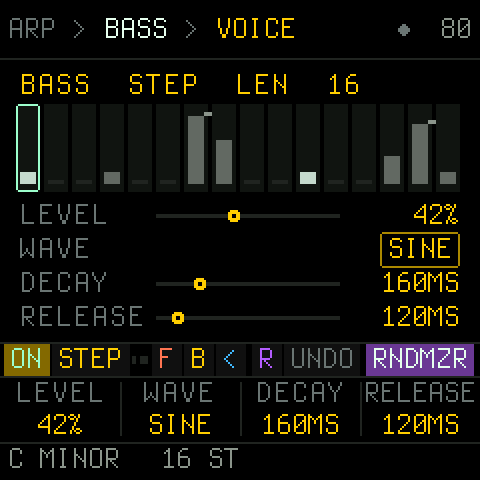
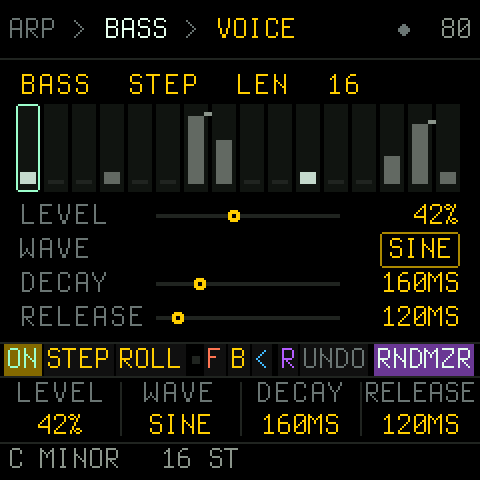
ROLL on BASS: a bass line under the sequence as it is, undoable (0.5-f34)
B2 on the BASS page rolls a BASS SEQ line the way a bass player would under the sequence: the one an accented root,
the other beats roots or fifths or the lead's chord tone where it has one, the offbeats walks into the next beat
(seventh, second or fifth under a root; fourth, sixth or root under a fifth), octave jumps before a root, the
lead's note, or the beat's note again; five to eleven notes of sixteen, the ands filled to five and the "e"s dropped
past eleven; an octave down with the jumps at 0; glides where a note runs into a different next note; it turns
BASS SEQ on. The undo snapshot keeps the bass too (the hash with it), so UNDO takes a roll back. bass_roll tests
200 rolls; the BASS rows' strips in the map, the README and the mapping test read ON STEP ROLL; the screens
regenerated. DECISIONS "A bass line that fits", ROADMAP D8.

Changed region(s): [[0.0, 0.7188, 1.0, 0.7812]]

diff --git a/firmware/src/mello_engine.c b/firmware/src/mello_engine.c
@@ -875,6 +875,93 @@ void mello_engine_drums_roll(MelloEngine *e)
     }
 }
 
+/* ROLL on BASS (DECISIONS.md "A bass line that fits"). A bass player under this sequence: the one is the root, the
+ * other beats (every fourth step) are roots or fifths, or the lead's note where the lead has a chord tone there; the
+ * offbeats are walks into the next beat (the second or the seventh under a root, the fourth or sixth under a fifth),
+ * octave jumps before a root, or the lead's note; the line sits an octave down, with octave jumps up to 0 for the
+ * fills. Five to eleven notes of sixteen, always the one; glides where a note runs into the next, accents on the
+ * one and the three and a few more. A roll never gives two lines alike (the rng moves on). */
+static uint8_t mus_degree(const ScaleDef *sd, int8_t semis); /* the MUSICAL randomizer's, below */
+void mello_engine_bass_roll(MelloEngine *e)
+{
+    static const uint8_t walk_to_root[3] = {MELLO_SUB_TONE_SEVENTH, MELLO_SUB_TONE_SECOND,
+                                            MELLO_SUB_TONE_FIFTH},
+                         walk_to_fifth[3] = {MELLO_SUB_TONE_FOURTH, MELLO_SUB_TONE_SIXTH,
+                                             MELLO_SUB_TONE_ROOT};
+    MelloBassConfig b;
+    const ScaleDef *sd;
+    uint8_t n, k, len, hits = 0u, lead_deg[MELLO_BASS_STEPS], beat_tone[MELLO_BASS_STEPS];
+    bool lead_chord[MELLO_BASS_STEPS];
+    int16_t density;
+    if (!e) return;
+    b = e->bass;
+    sd = &SCALES[e->project.scale < MELLO_SCALE_COUNT ? e->project.scale : MELLO_SCALE_MINOR];
+    n = sd->n;
+    len = b.length ? (b.length > MELLO_BASS_STEPS ? MELLO_BASS_STEPS : b.length) : 16u;
+    density = (int16_t)((int32_t)rng_bounded(&e->gen_rng, 3u) * 120 - 120); /* sparse, as is, busy */
+    /* what the lead plays at each bass step: its scale degree, and whether that is a chord tone (0, 3rd, 5th) */
+    for (k = 0u; k < len; ++k) {
+        const MelloStep *st = &e->project.steps[k % (e->project.seq_len ? e->project.seq_len : 16u)];
+        uint8_t deg = (uint8_t)((st->pitch < 0 ? 0 : st->pitch) % (n ? n : 7u));
+        lead_deg[k] = deg;
+        lead_chord[k] =
+            st->gate != MELLO_GATE_REST && !st->skip &&
+            (deg == 0u || deg == mus_degree(sd, 3) || deg == mus_degree(sd, 4) || deg == mus_degree(sd, 7));
+    }
+    /* the beats first: the one is the root; the others a root or a fifth, or the lead's chord tone when it has one */
+    for (k = 0u; k < len; ++k) {
+        MelloBassStep *s = &b.steps[k];
+        s->on = false, s->glide = false, s->accent = false, s->octave = -1, s->tone = MELLO_SUB_TONE_ROOT;
+        if (k % 4u) continue;
+        if (k == 0u)
+            beat_tone[k] = MELLO_SUB_TONE_ROOT;
+        else if (lead_chord[k] && chance_permille(&e->gen_rng, 550u))
+            beat_tone[k] =
+                lead_deg[k] == 0u ? MELLO_SUB_TONE_ROOT : (uint8_t)lead_deg[k]; /* the degree is the tone */
+        else
+            beat_tone[k] = chance_permille(&e->gen_rng, 600u) ? MELLO_SUB_TONE_ROOT : MELLO_SUB_TONE_FIFTH;
+        s->tone = beat_tone[k];
+        s->on = k == 0u || chance_permille(&e->gen_rng, (uint16_t)(780 + density));
+        s->accent = k == 0u || (k % 8u == 0u && chance_permille(&e->gen_rng, 600u));
+        if (s->on) ++hits;
+    }
+    /* the offbeats: a walk into the next beat, an octave jump before a root, the lead's note, or nothing */
+    for (k = 0u; k < len; ++k) {
+        MelloBassStep *s = &b.steps[k];
+        uint8_t next = (uint8_t)(((k / 4u + 1u) * 4u) % len), to = beat_tone[next], r;
+        uint16_t p =
+            k % 2u ? (uint16_t)(280 + density) : (uint16_t)(420 + density); /* the "and" more than the "e" */
+        if (k % 4u == 0u) continue;
+        if (!chance_permille(&e->gen_rng, p)) continue;
+        r = (uint8_t)rng_bounded(&e->gen_rng, 100u);
+        if (k % 4u == 3u && r < 45u) /* the step before a beat: a walk into it */
+            s->tone = to == MELLO_SUB_TONE_FIFTH ? walk_to_fifth[rng_bounded(&e->gen_rng, 3u)]
+                                                 : walk_to_root[rng_bounded(&e->gen_rng, 3u)];
+        else if (k % 4u == 3u && r < 65u && to == MELLO_SUB_TONE_ROOT) /* an octave jump before the root */
+            s->tone = MELLO_SUB_TONE_ROOT, s->octave = 0;
+        else if (lead_chord[k] && r < 85u)
+            s->tone = lead_deg[k] == 0u ? MELLO_SUB_TONE_ROOT : (uint8_t)lead_deg[k];
+        else
+            s->tone = beat_tone[(k / 4u) * 4u]; /* the beat's note again: a pulse */
+        s->on = true;
+        s->accent = chance_permille(&e->gen_rng, 120u);
+        ++hits;
+    }
+    if (hits < 5u) /* never sporadic: fill the ands until five play */
+        for (k = 2u; k < len && hits < 5u; k += 4u)
+            if (!b.steps[k].on) b.steps[k].on = true, b.steps[k].tone = beat_tone[(k / 4u) * 4u], ++hits;
+    for (k = 1u; k < len && hits > 11u; k += 2u) /* never a wall of sixteenths: the "e"s go first */
+        if (b.steps[k].on) b.steps[k].on = false, --hits;
+    for (k = 0u; k < len; ++k) /* glides where a note runs into the next and the two differ */
+        if (b.steps[k].on && b.steps[(k + 1u) % len].on &&
+            (b.steps[k].tone != b.steps[(k + 1u) % len].tone ||
+             b.steps[k].octave != b.steps[(k + 1u) % len].octave) &&
+            chance_permille(&e->gen_rng, 300u))
+            b.steps[k].glide = true;
+    b.on = true;
+    mello_engine_bass_set_config(e, &b);
+}
+
 /* One BASS SEQ step, pulses long: its note on the sub (unless SUB MUTE), held into the next step if it glides, the
  * next one marked to slide; accents louder (127, else 114 as the sub's). The events carry ratchet_index 1 + the step
  * (mello_audio: a BASS SEQ note slides only when asked, and tags each step apart). */
@@ -3232,6 +3319,7 @@ void mello_engine_undo_snapshot(MelloEngine *e)
     e->undo_chord = e->chord;
 #endif
     e->undo_drums = e->drums;
+    e->undo_bass = e->bass;
     e->undo_valid = true;
     e->undo_is_redo = false;
 }
@@ -3250,7 +3338,8 @@ static uint32_t undo_hash(const MelloEngine *e)
 #if MELLO_FEATURE_CHORD_MACHINE
     h = undo_hash_bytes(h, &e->chord, sizeof e->chord);
 #endif
-    return undo_hash_bytes(h, &e->drums, sizeof e->drums);
+    h = undo_hash_bytes(h, &e->drums, sizeof e->drums);
+    return undo_hash_bytes(h, &e->bass, sizeof e->bass);
 }
 
 uint8_t mello_engine_undo_state(MelloEngine *e)
@@ -3280,8 +3369,11 @@ bool mello_engine_undo_swap(MelloEngine *e)
 #endif
     {
         MelloDrumConfig d = e->drums;
+        MelloBassConfig b = e->bass;
         e->drums = e->undo_drums;
         e->undo_drums = d;
+        e->bass = e->undo_bass;
+        e->undo_bass = b;
     }
     (void)mello_engine_rebuild_sequence(e);
     e->undo_is_redo = !e->undo_is_redo;

diff --git a/tests/mello/bass_roll.c b/tests/mello/bass_roll.c
@@ -1,0 +1,94 @@
+/* SPDX-License-Identifier: GPL-3.0-only */
+/* Copyright (C) 2026 joakimskurk */
+/* ROLL on BASS (DECISIONS.md "A bass line that fits"): a rolled BASS SEQ line is never sporadic (five to eleven of
+ * sixteen steps), starts on the root on the one, sits an octave down except for octave jumps, puts roots, fifths or
+ * the lead's chord tones on the beats, keeps to tones in the scale, glides only into a step that plays, turns BASS
+ * SEQ on, differs from roll to roll, and is undone by UNDO. The lead is MUSICAL's roll, so the beats have chord
+ * tones to follow. */
+#include "mello_engine.h"
+#include <stdio.h>
+#include <string.h>
+
+#define CHECK(c, ...)                                                                                        \
+    do {                                                                                                     \
+        if (!(c)) {                                                                                          \
+            printf("FAIL %s:%d: ", __FILE__, __LINE__);                                                      \
+            printf(__VA_ARGS__);                                                                             \
+            printf("\n");                                                                                    \
+            return 1;                                                                                        \
+        }                                                                                                    \
+    } while (0)
+
+static MelloEngine e;
+
+static unsigned hits(void)
+{
+    unsigned k, n = 0u;
+    for (k = 0u; k < 16u; ++k) n += e.bass.steps[k].on;
+    return n;
+}
+
+int main(void)
+{
+    MelloProject p;
+    MelloBassConfig first;
+    uint32_t s;
+    unsigned sum = 0u, lead_follow = 0u, beats = 0u, different = 0u;
+    mello_project_defaults(&p);
+    mello_engine_init(&e, &p, 7u);
+    mello_engine_randomize_steps_intensity(&e, MELLO_RANDOMIZE_MUSICAL); /* a lead to fit */
+    CHECK(!e.bass.on, "BASS SEQ is off to begin with");
+
+    for (s = 0u; s < 200u; ++s) {
+        unsigned k, h;
+        mello_engine_undo_snapshot(&e);
+        mello_engine_bass_roll(&e);
+        h = hits();
+        sum += h;
+        CHECK(e.bass.on, "roll %u: BASS SEQ should be on after a roll", (unsigned)s);
+        CHECK(h >= 5u && h <= 11u, "roll %u: %u steps play, wanted 5..11", (unsigned)s, h);
+        CHECK(e.bass.steps[0].on && e.bass.steps[0].tone == MELLO_SUB_TONE_ROOT && e.bass.steps[0].accent,
+              "roll %u: the one is not an accented root", (unsigned)s);
+        for (k = 0u; k < 16u; ++k) {
+            const MelloBassStep *b = &e.bass.steps[k];
+            CHECK(b->octave == -1 || (b->octave == 0 && b->tone == MELLO_SUB_TONE_ROOT),
+                  "roll %u step %u: octave %d tone %u (an octave down, or a root jumped up)", (unsigned)s, k,
+                  b->octave, b->tone);
+            CHECK(b->tone <= MELLO_SUB_TONE_OCTAVE, "roll %u step %u: tone %u", (unsigned)s, k, b->tone);
+            if (b->on && b->glide)
+                CHECK(e.bass.steps[(k + 1u) % 16u].on, "roll %u step %u: a glide into a rest", (unsigned)s,
+                      k);
+            if (b->on && k % 4u == 0u) {
+                uint8_t lead = (uint8_t)((e.project.steps[k].pitch < 0 ? 0 : e.project.steps[k].pitch) % 7);
+                ++beats;
+                if (b->tone == MELLO_SUB_TONE_ROOT || b->tone == MELLO_SUB_TONE_FIFTH)
+                    ++lead_follow;
+                else {
+                    CHECK(b->tone == lead, "roll %u step %u: a beat on tone %u, the lead plays degree %u",
+                          (unsigned)s, k, b->tone, lead);
+                    ++lead_follow;
+                }
+            }
+        }
+        if (s == 0u) first = e.bass;
+        if (s && memcmp(e.bass.steps, first.steps, sizeof first.steps)) ++different;
+    }
+    printf(
+        "200 rolls: %u.%u notes a line; %u of %u beats are roots, fifths or the lead's tone; %u lines differ "
+        "from the first\n",
+        sum / 200u, sum * 10u / 200u % 10u, lead_follow, beats, different);
+    CHECK(different >= 190u, "only %u of 199 rolls differ from the first", different);
+
+    { /* UNDO takes a roll back */
+        MelloBassConfig before = e.bass;
+        mello_engine_undo_snapshot(&e);
+        mello_engine_bass_roll(&e);
+        CHECK(memcmp(e.bass.steps, before.steps, sizeof before.steps) != 0, "the roll changed nothing");
+        CHECK(mello_engine_undo_swap(&e) && !memcmp(e.bass.steps, before.steps, sizeof before.steps),
+              "UNDO did not bring the line back");
+    }
+    printf(
+        "PASS: ROLL on BASS gives a line under the sequence: roots and fifths on the beats, an octave down, "
+        "never sporadic, undoable\n");
+    return 0;
+}

diff --git a/firmware/src/mello_ui.c b/firmware/src/mello_ui.c
@@ -606,6 +606,7 @@ typedef enum {
     MELLO_CTX_DRUM_ACCENT, /* the selected step's accent */
     MELLO_CTX_DRUM_ROLL,   /* roll the drums (undoable) */
     MELLO_CTX_DRUM_FEED,   /* RNDMZR rolls the drums too */
+    MELLO_CTX_BASS_ROLL,   /* roll a bass line under the sequence (undoable) */
     MELLO_CTX_DELAY_PRE,   /* FX: the delay before the distortion */
     MELLO_CTX_SAMPLE_TOGGLE,
     MELLO_CTX_HOME_RANDOM, /* reroll now, at the intensity ALGORITHM sets */
@@ -722,6 +723,7 @@ static const MelloContextAction context_actions[MELLO_UI_MIX + 1u][11] = {
                          [10] = {MELLO_CTX_RNDMZR, "RNDMZR"}},
     [MELLO_UI_SUB] = {[0] = {MELLO_CTX_SUB_TOGGLE, "ON"},
                       [1] = {MELLO_CTX_SUB_STEP, "STEP"},
+                      [2] = {MELLO_CTX_BASS_ROLL, "ROLL"},
                       [5] = {MELLO_CTX_PERF_FILL, "F"},
                       [6] = {MELLO_CTX_PERF_SUB_MUTE, "B"},
                       [7] = {MELLO_CTX_PERF_REVERSE, "<"},
@@ -2559,6 +2561,12 @@ static void handle_context_action(MelloUi *ui, uint32_t now_ms, uint8_t action)
     case MELLO_CTX_DRUM_ROLL:
         mello_engine_undo_snapshot(e);
         mello_engine_drums_roll(e);
+        persistent_dirty(ui, now_ms);
+        mark_edit(ui);
+        break;
+    case MELLO_CTX_BASS_ROLL:
+        mello_engine_undo_snapshot(e);
+        mello_engine_bass_roll(e);
         persistent_dirty(ui, now_ms);
         mark_edit(ui);
         break;

diff --git a/firmware/src/mello_engine.h b/firmware/src/mello_engine.h
@@ -898,6 +898,7 @@ typedef struct {
     MelloChordConfig undo_chord;
 #endif
     MelloDrumConfig undo_drums;
+    MelloBassConfig undo_bass; /* ROLL on BASS is undoable too */
     bool undo_valid;
     bool undo_is_redo;  /* the last press was UNDO: the next puts the roll back */
     uint32_t undo_hash; /* the state as UNDO left it: an edit since means there is nothing to redo */
@@ -969,6 +970,11 @@ void mello_sub_defaults(MelloSubConfig *config);
 void mello_drum_defaults(MelloDrumConfig *config);
 void mello_bass_defaults(MelloBassConfig *config);
 void mello_engine_bass_set_config(MelloEngine *engine, const MelloBassConfig *config);
+/* ROLL on BASS (DECISIONS.md "A bass line that fits"): a new BASS SEQ line, weighted towards one a bass player would
+ * play under the sequence as it is: the root on the one, roots and fifths on the beats, the melody's chord tones
+ * where the lead has them, passing tones and octave jumps on the way, glides and accents, an octave down. Turns
+ * BASS SEQ on. Undo: the caller snapshots. */
+void mello_engine_bass_roll(MelloEngine *engine);
 void mello_engine_drums_set_config(MelloEngine *engine, const MelloDrumConfig *config);
 /* A roll of the drums: hits, accents and per-step locks, as much as roll says, the kick kept on the one. */
 void mello_engine_drums_roll(MelloEngine *engine);

diff --git a/tests/mello/control_authoritative_mapping.c b/tests/mello/control_authoritative_mapping.c
@@ -25,7 +25,7 @@ static const MapCase cases[] = {
     {"SLOTS", MELLO_UI_SLOTS, "B5:F B6:B B7:< B8:R B9:UNDO B10:RNDMZR"},
     {"DOT", MELLO_UI_DOT, "B1:RND B2:RST B3:FLW B4:REV B5:F B6:B B7:< B8:R B9:UNDO B10:RNDMZR"},
     {"TURING", MELLO_UI_TURING, "B0:ON B1:RND B2:LOOP B5:F B6:B B7:< B8:R B9:UNDO B10:RNDMZR"},
-    {"SUB", MELLO_UI_SUB, "B0:ON B1:STEP B5:F B6:B B7:< B8:R B9:UNDO B10:RNDMZR"},
+    {"SUB", MELLO_UI_SUB, "B0:ON B1:STEP B2:ROLL B5:F B6:B B7:< B8:R B9:UNDO B10:RNDMZR"},
 #if MELLO_FEATURE_CHORD_MACHINE
     {"CHORD", MELLO_UI_CHORD, "B0:ON B1:BASS B5:F B6:B B7:< B8:R B9:UNDO B10:RNDMZR"},
 #endif
@@ -188,7 +188,7 @@ static void verify_every_page_and_inactive_slot(void)
         }
     }
 #if MELLO_FEATURE_CHORD_MACHINE
-    if (active != 149u) die("MAP", "active slot count != 149 with Chord");
+    if (active != 150u) die("MAP", "active slot count != 150 with Chord");
 #else
     if (active != 140u) die("MAP", "active slot count != 140 without Chord");
 #endif

diff --git a/tests/mello/control_context_contract.c b/tests/mello/control_context_contract.c
@@ -27,7 +27,7 @@ static const HintCase hints[] = {
     {"SLOTS", MELLO_UI_SLOTS, "B5:F B6:B B7:< B8:R B9:UNDO B10:RNDMZR"},
     {"DOT", MELLO_UI_DOT, "B1:RND B2:RST B3:FLW B4:REV B5:F B6:B B7:< B8:R B9:UNDO B10:RNDMZR"},
     {"TURING", MELLO_UI_TURING, "B0:ON B1:RND B2:LOOP B5:F B6:B B7:< B8:R B9:UNDO B10:RNDMZR"},
-    {"SUB", MELLO_UI_SUB, "B0:ON B1:STEP B5:F B6:B B7:< B8:R B9:UNDO B10:RNDMZR"},
+    {"SUB", MELLO_UI_SUB, "B0:ON B1:STEP B2:ROLL B5:F B6:B B7:< B8:R B9:UNDO B10:RNDMZR"},
 #if MELLO_FEATURE_CHORD_MACHINE
     {"CHORD", MELLO_UI_CHORD, "B0:ON B1:BASS B5:F B6:B B7:< B8:R B9:UNDO B10:RNDMZR"},
 #endif

diff --git a/docs/mello/UI_MAP.md b/docs/mello/UI_MAP.md
@@ -32,12 +32,12 @@ K1-K4's labels with their default values. Regenerate with the extractor (uimap.c
 | <img src="../screens/evolve-routes.png" width="96" alt="EVOLVE ROUTES"> | EVOLVE | LFO | ROUTES | `ON RND LOOP F B < R UNDO RNDMZR` | GATE ON · FILTER OFF · OCT OFF · DECAY OFF |
 | <img src="../screens/evolve-depth.png" width="96" alt="EVOLVE DEPTH"> | EVOLVE | LFO | DEPTH | `ON RND LOOP F B < R UNDO RNDMZR` | GATE 35% · FILTER 35% · OCT 35% · DECAY 35% |
 | <img src="../screens/evolve-sound.png" width="96" alt="EVOLVE SOUND"> | EVOLVE | LFO | SOUND | `ON RND LOOP F B < R UNDO RNDMZR` | DEST A OFF · DEPTH A +50% · DEST B OFF · DEPTH B +50% |
-| <img src="../screens/bass-play.png" width="96" alt="BASS PLAY"> | BASS | ARP | PLAY | `ON STEP F B < R UNDO RNDMZR` | MODE STEP · PULSES 6 · ROTATE 0 · OCT -1 |
-| <img src="../screens/bass-seq.png" width="96" alt="BASS SEQ"> | BASS | ARP | SEQ | `ON STEP F B < R UNDO RNDMZR` | SEQ OFF · LENGTH 16 · FOLLOW OFF · GATE 90% |
-| <img src="../screens/bass-step.png" width="96" alt="BASS STEP"> | BASS | ARP | STEP | `ON STEP F B < R UNDO RNDMZR` | TONE ROOT · OCT +0 · GLIDE OFF · ACCENT ON |
-| <img src="../screens/bass-voice.png" width="96" alt="BASS VOICE"> | BASS | ARP | VOICE | `ON STEP F B < R UNDO RNDMZR` | LEVEL 42% · WAVE SINE · DECAY 160MS · RELEASE 120MS |
-| <img src="../screens/bass-tone.png" width="96" alt="BASS TONE"> | BASS | ARP | TONE | `ON STEP F B < R UNDO RNDMZR` | GLIDE 20MS · CUT 242.0HZ · DRIVE 0% · OCT -1 |
-| <img src="../screens/bass-filter.png" width="96" alt="BASS FILTER"> | BASS | ARP | FILTER | `ON STEP F B < R UNDO RNDMZR` | RES 0% · ENV 0% · F.DEC 300MS · ACCENT 50% |
+| <img src="../screens/bass-play.png" width="96" alt="BASS PLAY"> | BASS | ARP | PLAY | `ON STEP ROLL F B < R UNDO RNDMZR` | MODE STEP · PULSES 6 · ROTATE 0 · OCT -1 |
+| <img src="../screens/bass-seq.png" width="96" alt="BASS SEQ"> | BASS | ARP | SEQ | `ON STEP ROLL F B < R UNDO RNDMZR` | SEQ OFF · LENGTH 16 · FOLLOW OFF · GATE 90% |
+| <img src="../screens/bass-step.png" width="96" alt="BASS STEP"> | BASS | ARP | STEP | `ON STEP ROLL F B < R UNDO RNDMZR` | TONE ROOT · OCT +0 · GLIDE OFF · ACCENT ON |
+| <img src="../screens/bass-voice.png" width="96" alt="BASS VOICE"> | BASS | ARP | VOICE | `ON STEP ROLL F B < R UNDO RNDMZR` | LEVEL 42% · WAVE SINE · DECAY 160MS · RELEASE 120MS |
+| <img src="../screens/bass-tone.png" width="96" alt="BASS TONE"> | BASS | ARP | TONE | `ON STEP ROLL F B < R UNDO RNDMZR` | GLIDE 20MS · CUT 242.0HZ · DRIVE 0% · OCT -1 |
+| <img src="../screens/bass-filter.png" width="96" alt="BASS FILTER"> | BASS | ARP | FILTER | `ON STEP ROLL F B < R UNDO RNDMZR` | RES 0% · ENV 0% · F.DEC 300MS · ACCENT 50% |
 | <img src="../screens/chord-play.png" width="96" alt="CHORD PLAY"> | CHORD | ARP | PLAY | `ON BASS F B < R UNDO RNDMZR` | MODE PATTERN · TRIG GRID · CHORDS 4 · GATE 72% |
 | <img src="../screens/chord-chord.png" width="96" alt="CHORD CHORD"> | CHORD | ARP | CHORD | `ON BASS F B < R UNDO RNDMZR` | DEG 1 · SHAPE TRIAD · HOLD 2 · OCT -1 |
 | <img src="../screens/chord-voicing.png" width="96" alt="CHORD VOICING"> | CHORD | ARP | VOICING | `ON BASS F B < R UNDO RNDMZR` | INV 0 · SPREAD 1 · VOICES 3 · VLEAD OFF |

diff --git a/README.md b/README.md
@@ -24,7 +24,7 @@ firmware with the FM-1 update loader), over USB-MIDI:
 
 ```sh
 pip3 install mido python-rtmidi
-python3 tools/fm1_install.py build/skurkymello-0.5-f33.fwsc
+python3 tools/fm1_install.py build/skurkymello-0.5-f34.fwsc
 python3 tools/fm1_install.py --info        # what the FM-1 runs now
 ```
 
@@ -168,6 +168,8 @@ Levels and amounts read in %, times in ms (or s), cutoffs in Hz, pitch in semito
   puts the bass on the chord's root.
 - **Bass** (ARP > BASS). The dedicated sub voice: a step, euclidean, matrix, register or drone mode, or BASS SEQ, a
   16-step bass line of its own with tone, octave, glide and accent per step, a resonant filter with envelope, drive.
+  ROLL (B2) writes a line under the sequence as it is: roots and fifths, or the lead's chord tones, on the beats,
+  walks and octave jumps between, an octave down; UNDO takes it back.
 - **Drums** (ARP > DRUMS). Kick, snare, hat and a glitch voice (bleep, chirp, crackle, stutter) on a 16-step
   pattern with accents, per-step pitch, decay, crush and ratchet locks, rolls, chance, swing (GLOBAL > GROOVE, for
   everything), a kit drive with fold, and a send to the delay and reverb. RNDMZR rolls them too with FEED on.
@@ -212,12 +214,12 @@ K1-K4 with their default values.
 | EVOLVE | LFO | ROUTES | `ON RND LOOP F B < R UNDO RNDMZR` | GATE ON · FILTER OFF · OCT OFF · DECAY OFF |
 | EVOLVE | LFO | DEPTH | `ON RND LOOP F B < R UNDO RNDMZR` | GATE 35% · FILTER 35% · OCT 35% · DECAY 35% |
 | EVOLVE | LFO | SOUND | `ON RND LOOP F B < R UNDO RNDMZR` | DEST A OFF · DEPTH A +50% · DEST B OFF · DEPTH B +50% |
-| BASS | ARP | PLAY | `ON STEP F B < R UNDO RNDMZR` | MODE STEP · PULSES 6 · ROTATE 0 · OCT -1 |
-| BASS | ARP | SEQ | `ON STEP F B < R UNDO RNDMZR` | SEQ OFF · LENGTH 16 · FOLLOW OFF · GATE 90% |
-| BASS | ARP | STEP | `ON STEP F B < R UNDO RNDMZR` | TONE ROOT · OCT +0 · GLIDE OFF · ACCENT ON |
-| BASS | ARP | VOICE | `ON STEP F B < R UNDO RNDMZR` | LEVEL 42% · WAVE SINE · DECAY 160MS · RELEASE 120MS |
-| BASS | ARP | TONE | `ON STEP F B < R UNDO RNDMZR` | GLIDE 20MS · CUT 242.0HZ · DRIVE 0% · OCT -1 |
-| BASS | ARP | FILTER | `ON STEP F B < R UNDO RNDMZR` | RES 0% · ENV 0% · F.DEC 300MS · ACCENT 50% |
+| BASS | ARP | PLAY | `ON STEP ROLL F B < R UNDO RNDMZR` | MODE STEP · PULSES 6 · ROTATE 0 · OCT -1 |
+| BASS | ARP | SEQ | `ON STEP ROLL F B < R UNDO RNDMZR` | SEQ OFF · LENGTH 16 · FOLLOW OFF · GATE 90% |
+| BASS | ARP | STEP | `ON STEP ROLL F B < R UNDO RNDMZR` | TONE ROOT · OCT +0 · GLIDE OFF · ACCENT ON |
+| BASS | ARP | VOICE | `ON STEP ROLL F B < R UNDO RNDMZR` | LEVEL 42% · WAVE SINE · DECAY 160MS · RELEASE 120MS |
+| BASS | ARP | TONE | `ON STEP ROLL F B < R UNDO RNDMZR` | GLIDE 20MS · CUT 242.0HZ · DRIVE 0% · OCT -1 |
+| BASS | ARP | FILTER | `ON STEP ROLL F B < R UNDO RNDMZR` | RES 0% · ENV 0% · F.DEC 300MS · ACCENT 50% |
 | CHORD | ARP | PLAY | `ON BASS F B < R UNDO RNDMZR` | MODE PATTERN · TRIG GRID · CHORDS 4 · GATE 72% |
 | CHORD | ARP | CHORD | `ON BASS F B < R UNDO RNDMZR` | DEG 1 · SHAPE TRIAD · HOLD 2 · OCT -1 |
 | CHORD | ARP | VOICING | `ON BASS F B < R UNDO RNDMZR` | INV 0 · SPREAD 1 · VOICES 3 · VLEAD OFF |

diff --git a/docs/mello/DECISIONS.md b/docs/mello/DECISIONS.md
@@ -735,6 +735,28 @@ The 0.5 feedback round left 800 bytes of RAM, a storage bank that silently stopp
   91040 of 98304. A fifth slot needs 32 KiB of pool (the delay's 1.49 s is the only thing that size) and flash
   that no map lists (0xE5000..0xFC000 is unlisted in Felucca's): not without a unit.
 
+## A bass line that fits (2026-11-01)
+
+The user wanted to roll the bass as the drums roll: "not MUSICAL as such, but weighted towards something usable;
+the bass is often an octave too high and very sporadic under the ordinary randomizer; with a melody in the main
+sequence, a rolled bass line should fit it, more or less." So BASS gets ROLL on B2, beside ON and STEP, and
+`mello_engine_bass_roll` writes a BASS SEQ line the way a bass player would under the sequence as it is:
+
+- **The beats** (every fourth step) first: the one is the root, accented; the others a root or a fifth, or, where
+  the lead has a chord tone on that step (root, third, fifth or seventh of the scale), the lead's degree itself, so
+  the line moves with the melody.
+- **The offbeats** are walks into the next beat (the seventh, second or fifth under a root; the fourth, sixth or
+  root under a fifth), an octave jump before a root, the lead's note where it is a chord tone, or the beat's note
+  again as a pulse; the "and" more often than the "e".
+- **Never sporadic**: five to eleven notes of sixteen, the ands filled to five, the "e"s dropped past eleven. Three
+  densities, as MUSICAL's.
+- **An octave down**: every step at octave -1, the jumps at 0 (the sub's own OCT, -1 by default, still applies).
+- **Glides** where a note runs into a different next note, three in ten; accents on the one, often on the three,
+  and a few more.
+
+ROLL turns BASS SEQ on, so the line is heard at once, and UNDO takes it back: the undo snapshot now keeps the bass
+with the project, the sound, the chords and the drums. The test (bass_roll) checks 200 rolls for all of it.
+
 ## A melody, not a walk (2026-11-01)
 
 MUSICAL (2026-10-31) rolled a phrase in a form (A A' A B ...) but walked each cell by random steps from a chord tone

diff --git a/ROADMAP.md b/ROADMAP.md
@@ -109,6 +109,9 @@ bank that silently stops saving, CPU never measured on the chip since 0.5-f3. In
       developments by sequence, inversion or displacement, syncopated answers; span 8.3, notes 5.4, the second
       half never the first again. Package 0.5-f32. v2.2: rhythm motifs from a library (3+3+2 figures, offbeat
       answers), cross-rhythm accents, more ratchets, slides and chance notes, octave leaps. Package 0.5-f33.
+- [x] D8. ROLL on BASS (DECISIONS "A bass line that fits"): a BASS SEQ line under the sequence as it is, roots and
+      fifths or the lead's chord tones on the beats, walks and octave jumps between, an octave down, never
+      sporadic, undoable. Package 0.5-f34.
 
 Order: A1, B1, C1 (and C2's decisions), then B2-B4 and C3 in turns, B5, D1-D2, first flash and C4.
 
